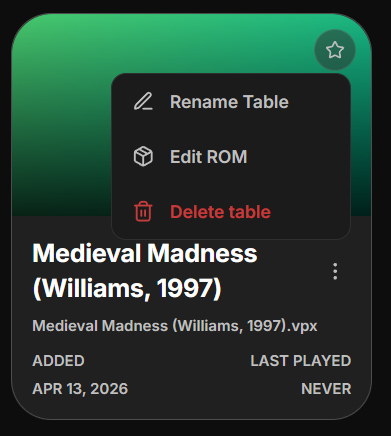
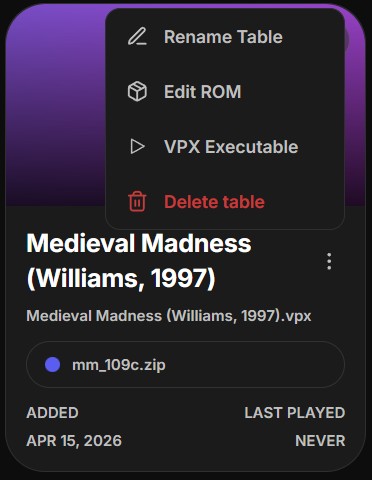
update readme: per table vpx executable

diff --git a/README.md b/README.md
@@ -97,8 +97,9 @@ If you already have an existing VPX setup, start with Scan Library first.
 - **Play** button launches the table.
 - **Kebab menu** lets you:
   - Rename table
-  - Edit ROM
-  - Delete table
+  - Edit ROM — set the ROM file associated with this table
+  - VPX Executable — set a different VPX exe file per table (overrides the global one)
+  - Delete Table — removes the DB entry and deletes the table's files from VPX folders
 
 ## Settings reference
 
